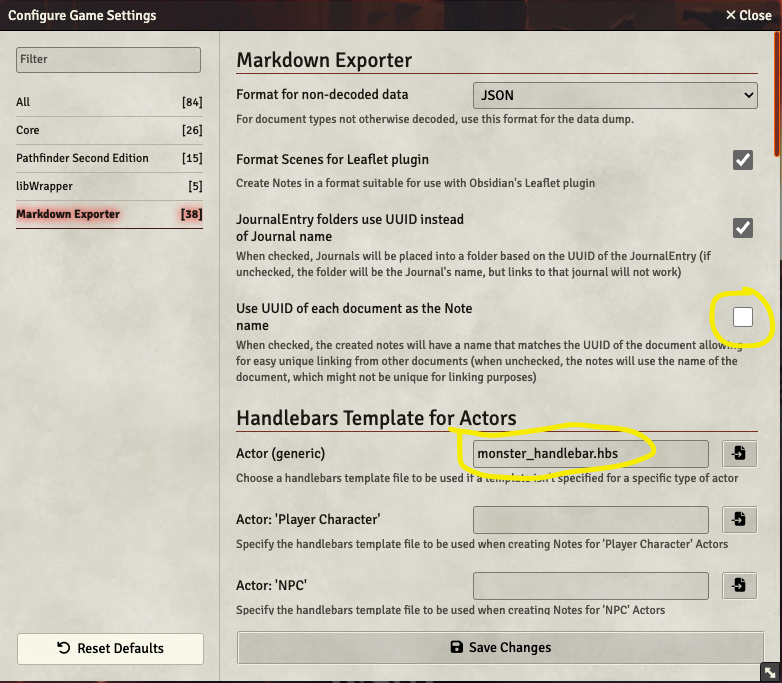
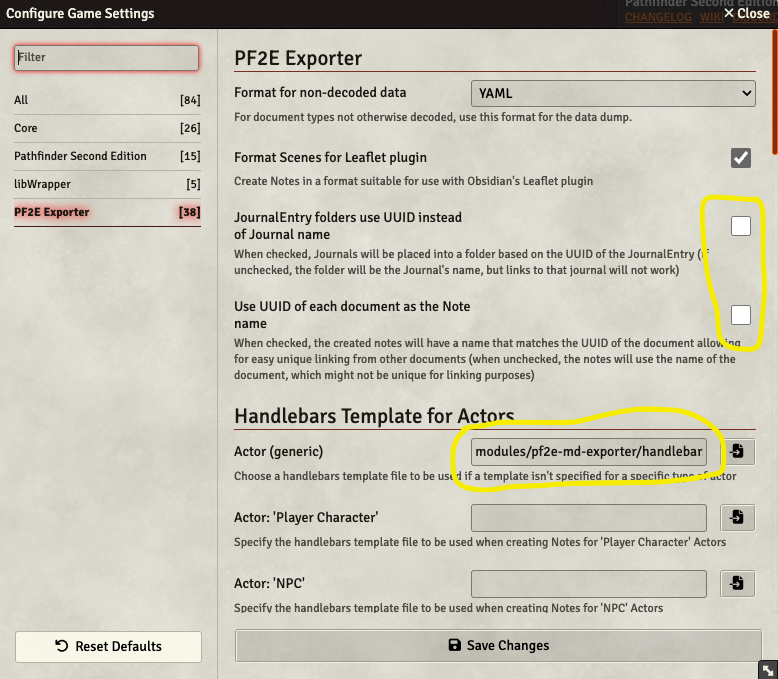
More prep work for standalone module.

diff --git a/scripts/module-settings.js b/scripts/module-settings.js
@@ -33,7 +33,7 @@ Hooks.once('ready', () => {
 		hint: "When checked, Journals will be placed into a folder based on the UUID of the JournalEntry (if unchecked, the folder will be the Journal's name, but links to that journal will not work)",
 		scope: "world",
 		type:  Boolean,
-		default: true,
+		default: false,
 		config: true,
 	});
 
@@ -42,7 +42,7 @@ Hooks.once('ready', () => {
 		hint: "When checked, the created notes will have a name that matches the UUID of the document allowing for easy unique linking from other documents (when unchecked, the notes will use the name of the document, which might not be unique for linking purposes)",
 		scope: "world",
 		type:  Boolean,
-		default: true,
+		default: false,
 		config: true,
 	});
 
@@ -52,7 +52,7 @@ Hooks.once('ready', () => {
         hint: "Choose a handlebars template file to be used if a template isn't specified for a specific type of actor",
         scope: "world",
         type:  String,
-        default: "",
+        default: "modules/pf2e-md-exporter/handlebars/monster_handlebar.hbs",
         config: true,
         filePicker: "text"
     })
@@ -60,12 +60,16 @@ Hooks.once('ready', () => {
     for (const type of game.template.Actor.types) {
         const label = CONFIG.Actor.typeLabels[type];
         const actorname = game.i18n.has(label) ? game.i18n.localize(label) : type;
+        let handlebarDefault = "";
+        if (label == 'TYPES.Actor.hazard') {
+          handlebarDefault = "modules/pf2e-md-exporter/handlebars/hazard_handlebar.hbs";
+        }
         game.settings.register(MOD_CONFIG.MODULE_NAME, `template.Actor.${type}`, {
             name: game.i18n.format(`${MOD_CONFIG.MODULE_NAME}.actorTemplate.Name`, {name: actorname}),
             hint: game.i18n.format(`${MOD_CONFIG.MODULE_NAME}.actorTemplate.Hint`, {name: actorname}),
             scope: "world",
             type:  String,
-            default: "",
+            default: handlebarDefault,
             config: true,
             filePicker: "text"
         })
@@ -77,7 +81,7 @@ Hooks.once('ready', () => {
         hint: "Choose a handlebars template file to be used if a template isn't specified for a specific type of Item",
         scope: "world",
         type:  String,
-        default: "",
+        default: "modules/pf2e-md-exporter/handlebars/generic_handlebar.hbs",
         config: true,
         filePicker: "text"
     })
@@ -85,12 +89,16 @@ Hooks.once('ready', () => {
     for (const type of game.template.Item.types) {
         const label = CONFIG.Item.typeLabels[type];
         const itemname = game.i18n.has(label) ? game.i18n.localize(label) : type;
+        let handlebarDefault = "";
+        if (label == 'TYPES.Item.spell') {
+          handlebarDefault = "modules/pf2e-md-exporter/handlebars/spell_handlebar.hbs";
+        }
         game.settings.register(MOD_CONFIG.MODULE_NAME, `template.Item.${type}`, {
 		    name: game.i18n.format(`${MOD_CONFIG.MODULE_NAME}.itemTemplate.Name`, {name: itemname}),
 		    hint: game.i18n.format(`${MOD_CONFIG.MODULE_NAME}.itemTemplate.Hint`, {name: itemname}),
 		    scope: "world",
 		    type:  String,
-		    default: "",
+		    default: handlebarDefault,
             config: true,
             filePicker: "text"
         })

diff --git a/README.md b/README.md
@@ -1,17 +1,12 @@
 
-# Markdown Exporter, changes for PF2E
+# PF2E Exporter Process Overview
 
-# Process Overview
+> [!CAUTION] 
+> This is a modification of the [Markdown Exporter](https://github.com/farling42/fvtt-export-markdown) module.   It was modified so it produces more usable Pathfinder 2E Remaster content in markdown format for Obisidian.  Since it is a derivative of the Markdown Exporter module, it is important to know you should not have both modules active at the same time in a single world.  They both modify menus in the same way, so will very likely cause confusing behavior.
 
-**NOTE** This is a modification of the [Markdown Exporter](https://github.com/farling42/fvtt-export-markdown) module so it produces more usable Pathfinder 2E Remaster content in markdown format for Obisidian.
+This module relies on [handlebars]() to do the data conversion to markdown format.  When exporting the Pathfinder data, the module will use the included `handlebars/spell_handlebar.hbs` for Spells, `monster_handlebar.hbs` as the general handlebar for Actors, `hazard_handlebar.hbs` as the handlebar for Hazard actors, and `generic_handlebar.hbs` for generic items.  These handlebars will already be selected by default in the module settings, but you can override them if you have your own custom handlebars.
 
-Detailed instructions are in the next section.  What follows here is a quick overview of the process:
-
-First, install this module in your Foundry world.
-
-When exporting the Pathfinder compendium, use the included `handlebars/spell_handlebar.hbs` for Spells, `monster_handlebar.hbs` as the general handlebar for Actors, `hazard_handlebar.hbs` as the handlebar for Hazard actors, and `generic_handlebar.hbs` for generic items.  These handlebars will already be selected by default, but you can override them in the settings if you have your own custom handlebars.
-
-Included in this project is a new file `pf2e-spell.css` which is an 
+Also included in this project is a `pf2e-spell.css` which is an 
 Obsidian CSS snippet which can be installed in your `.obsidian/snippets` directory so the spells resemble the new style used in the Player Core and GM Core books.
 
 # Detailed Installation Instructions
@@ -20,19 +15,24 @@ This process requires you have a Foundry account with a World with the **Pathfin
 ![Game System](Screenshots/GameSystem.png)
 
 ## 1. Install the following required modules:
-* libWrapper
-* PF2E Exporter
-* More Handlebars Helpers
+* **PF2E Exporter** (This is what you are reading right now. Use manifest `https://github.com/MostTornBrain/pf2e-md-exporter/releases/latest/download/module.json`)
+* **libWrapper**
+* **More Handlebars Helpers**
+
+NOTE: You should be prompted to install the two extra required modules automatically when installing this module. 
+
 
 ## 2. Enable modules
-Launch your world in Foundry, and log in as the Gamemaster account.   If you already had your world running when you performed the above steps, you will need to log out and log back in as Gamemaster for the changes to take effect.
+Launch your world in Foundry and log in as the Gamemaster account.   
 
 Choose `Manage Modules` in your logged into Foundry world.  Enable these three modules you installed in step 1. 
 ![Required Modules](Screenshots/RequiredModules.png)
 
-## 3. Configure Markdown Exporter
-Choose `Configure Settings` and pick Markdown Exporter. Ensure the following options are checked.   _NOTE:_ It is recommended to **NOT** use the UUID of each document as the note name as doing so will populate your vault with a lot of random file names.
-![Markdown Exporter](Screenshots/MarkdownExporterSettings.png)
+## 3. Configure PF2E Exporter
+Choose `Configure Settings` and pick PF2E Exporter.
+
+_NOTE:_ It is recommended to **NOT** use the UUID of each document as the note name as doing so will populate your vault with a lot of random file names.
+![PF2E Exporter Settings](Screenshots/MarkdownExporterSettings.png)
 
 Click on `Save Changes`.
 
@@ -44,10 +44,10 @@ If you want to export the whole Compendium, you can go to the compendium menu an
 ![Compendium](Screenshots/Compendium.png)
 
 ## 6. Customize your Vault
-The exported data requires a few extra plugins in Obsidian to be viewed in the best format.
-### Install and enable the following plugins. 
-* Fantasy Statblocks
-* Pathfinder 2E Action Icons
+The exported data requires a couple extra plugins in Obsidian to be viewed in the best format.
+### Install and enable the following plugins:
+* **Fantasy Statblocks**
+* **Pathfinder 2E Action Icons**
 
 For the Fantasy Statblocks, you can go into its settings and disable the built-in D&D 5e SRD monsters if you aren't using D&D.
 
@@ -58,20 +58,22 @@ It is also recommended to install the ITS Theme so the spells look their best. C
 
 ![ITS](Screenshots/InstallITS.png)
 
-### Install custom snippet
+### Install the custom CSS snippet for spells
 In addition, copy the `pf2e-spell.css` from this github project into your `.obsidian/snippets` folder.  (If you don't already have a snippets folder, you will need to create it.)   After you copy the snippet file, go into the Obsidian settings, choose `Appearance` and scroll down to the `Snippets` section and enable this `pf2e-spell.css` snippet.
 
 ![Snippet](Screenshots/EnableSnippet.png)
 
 ### Unzip the exported Compendium and add it to your vault.
-You can install the compendium in any sub-folder in your vault.  The links it uses between items only reference the direct unique filenames without paths, so you should be able to even re-organize the directories however you might prefer.
+You can install the compendium in any sub-folder in your vault.  If you used the default export option of NOT using UUID names for documents, the links created in the exported documents will use shortened paths based on the document type (such as spell, or feat, etc), so you should be able to even re-organize the directories however you might prefer.  While you can change where you store the directories containing each category of document, it should be noted that you should NOT rename the directories themselves since the links rely on the directory names.  For example, you can move the Spells folder whereever you'd like, but if you renamed folder "Spells" to "PF2E Spells" that would break many links in the documents.
 
-### Reload Obsisian for plugin and CSS changes to take effect
+If you instead chose the option to export the documents as UUID names, the above restrictions do not apply. You can move any individual document anywhere and the links will still work properly.
+
+### Reload Obsisian so the plugin and CSS changes take effect
 At this point, it is recommended to reload Obsidian to ensure all the plugins and theme changes take effect, although it may not be 100% necessary in all cases.
 ![Reload](Screenshots/ReloadApp.png)
 
 ## Enjoy!
-At this point, you should have a vault with the compendium fully linked files.  Monsters should look like this:
+At this point, you should have a vault with the compendium of fully linked files.  Monsters should look like this:
 
 ![GoblinPyro](Screenshots/GoblinPyro.png)
 
